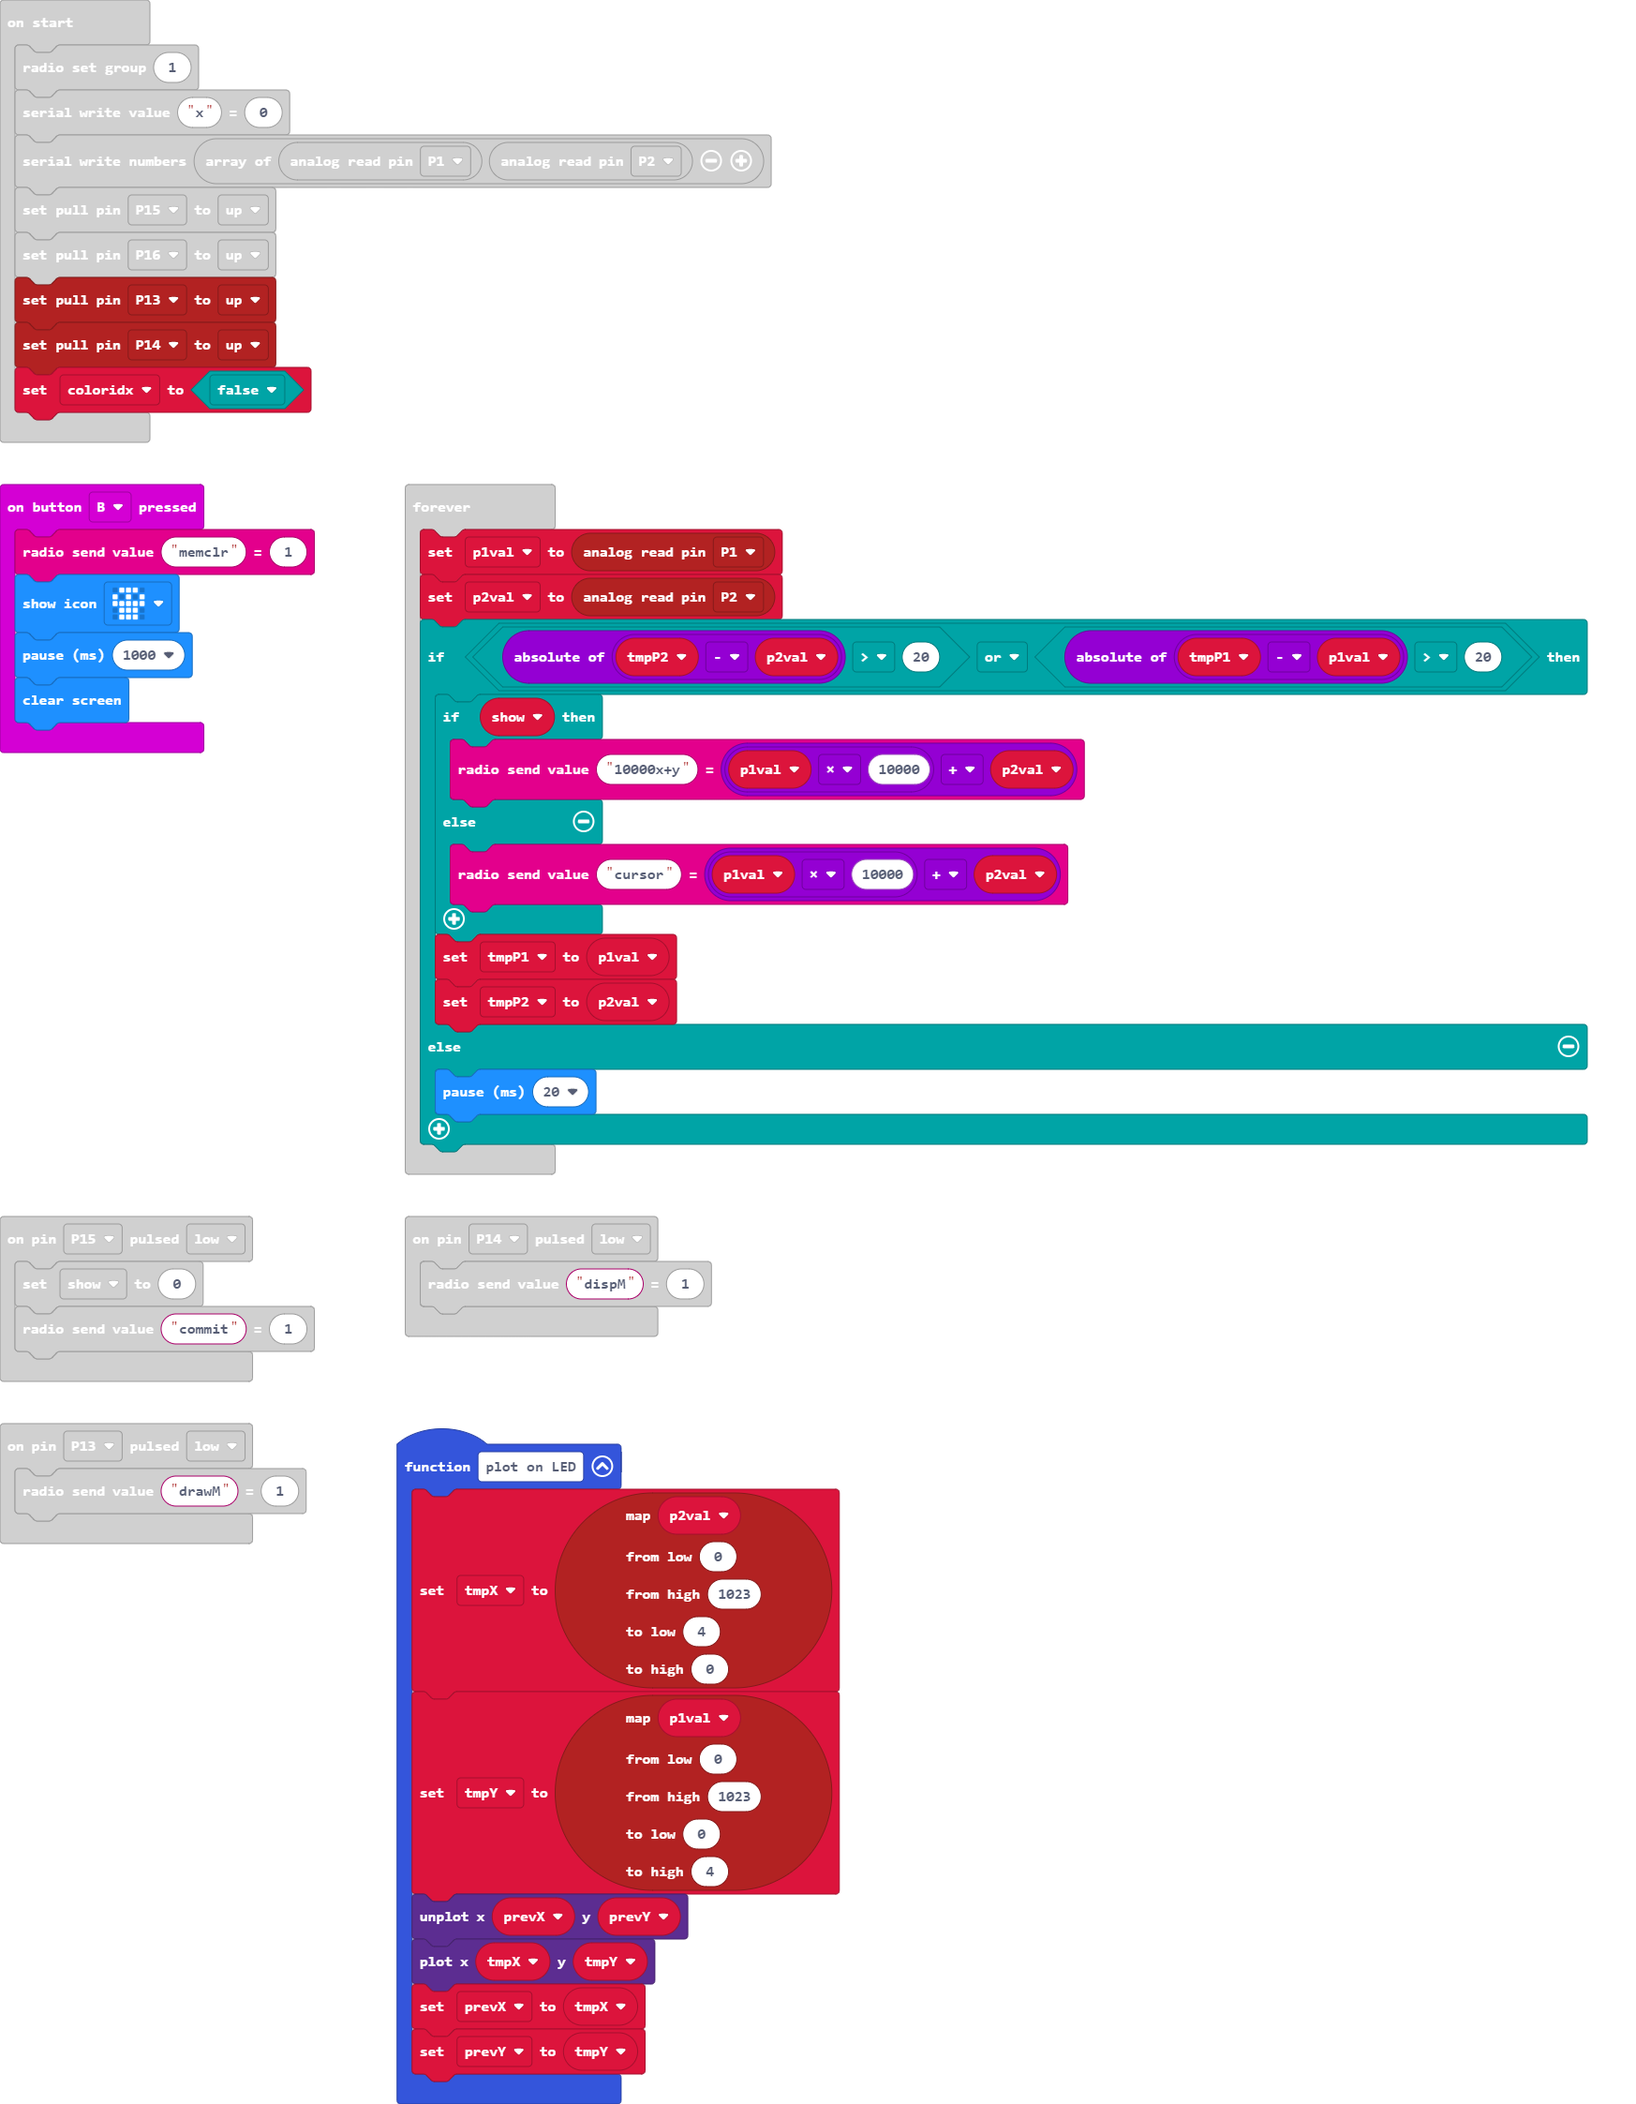
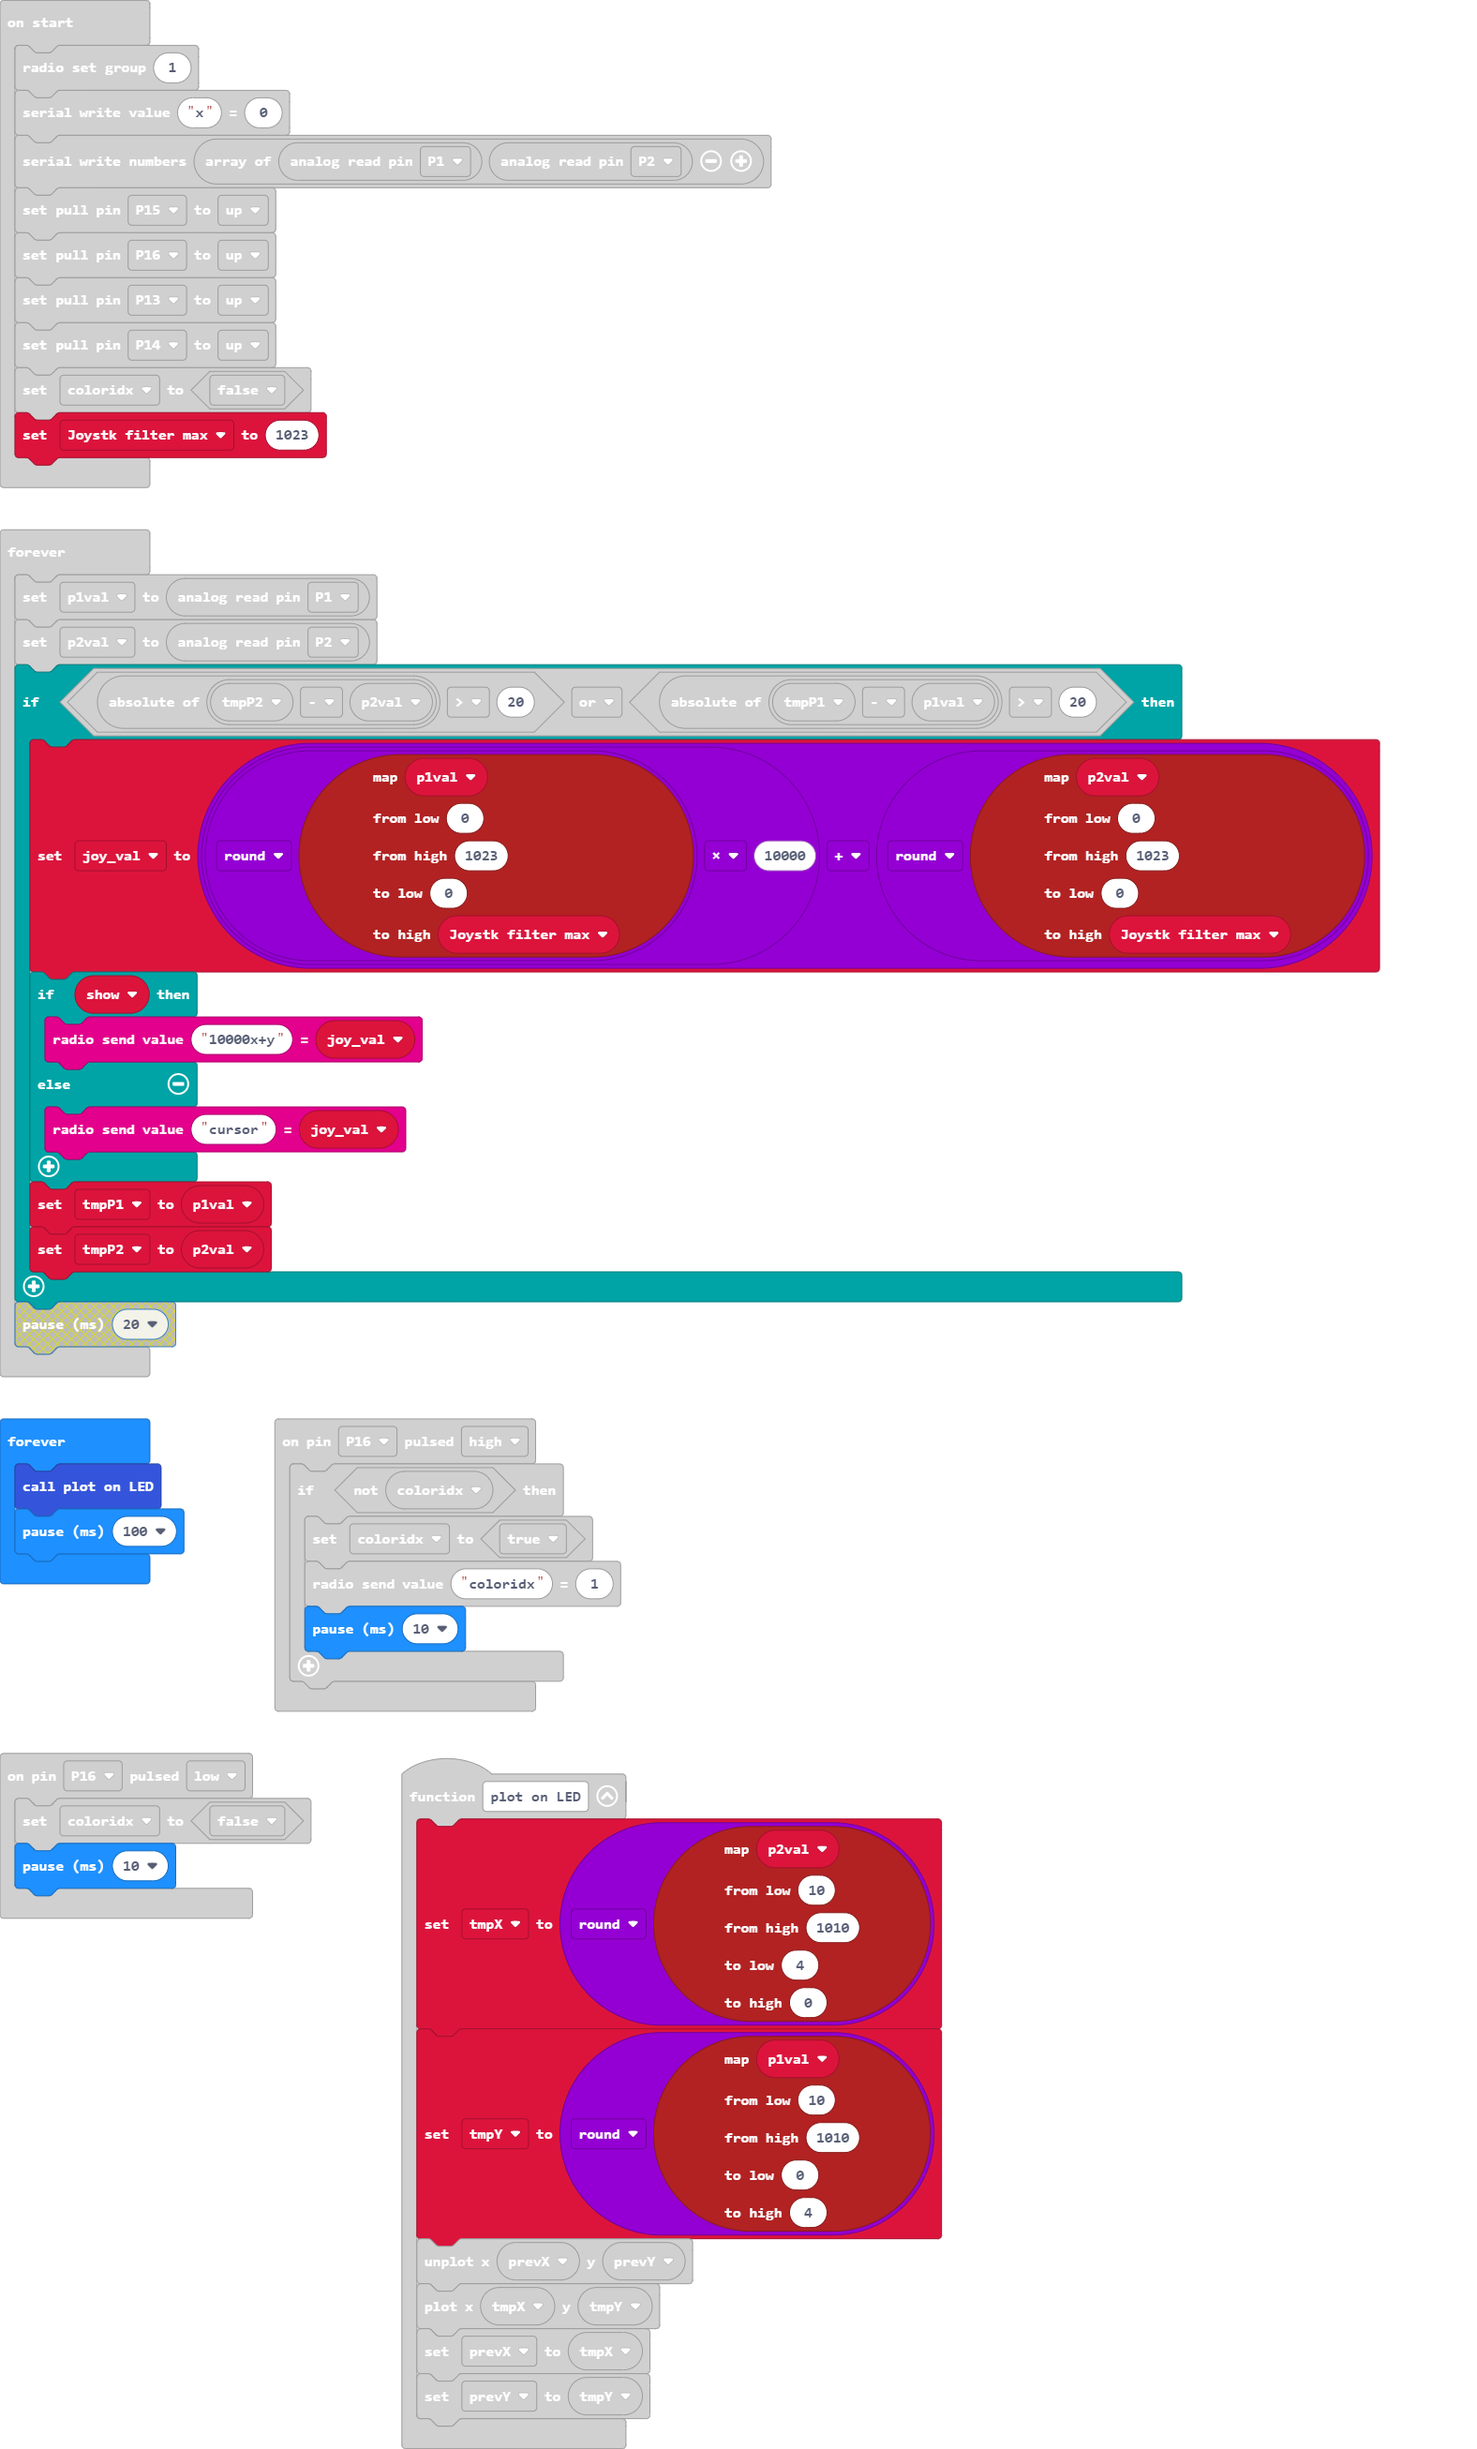
Update main.blocks, main.ts

diff --git a/main.ts b/main.ts
@@ -5,6 +5,7 @@ pins.onPulsed(DigitalPin.P16, PulseValue.High, function () {
     if (!(coloridx)) {
         coloridx = true
         radio.sendValue("coloridx", 1)
+        basic.pause(10)
     }
 })
 input.onButtonPressed(Button.A, function () {
@@ -24,6 +25,7 @@ input.onButtonPressed(Button.B, function () {
 })
 pins.onPulsed(DigitalPin.P16, PulseValue.Low, function () {
     coloridx = false
+    basic.pause(10)
 })
 pins.onPulsed(DigitalPin.P14, PulseValue.Low, function () {
     radio.sendValue("dispM", 1)
@@ -33,25 +35,26 @@ pins.onPulsed(DigitalPin.P15, PulseValue.Low, function () {
     radio.sendValue("commit", 1)
 })
 function plot_on_LED () {
-    tmpX = pins.map(
+    tmpX = Math.round(pins.map(
     p2val,
-    0,
-    1023,
+    10,
+    1010,
     4,
     0
-    )
-    tmpY = pins.map(
+    ))
+    tmpY = Math.round(pins.map(
     p1val,
-    0,
-    1023,
+    10,
+    1010,
     0,
     4
-    )
+    ))
     led.unplot(prevX, prevY)
     led.plot(tmpX, tmpY)
     prevX = tmpX
     prevY = tmpY
 }
+let joy_val = 0
 let tmpP1 = 0
 let tmpP2 = 0
 let prevY = 0
@@ -70,18 +73,34 @@ pins.setPull(DigitalPin.P16, PinPullMode.PullUp)
 pins.setPull(DigitalPin.P13, PinPullMode.PullUp)
 pins.setPull(DigitalPin.P14, PinPullMode.PullUp)
 coloridx = false
+let Joystk_filter_max = 1023
 basic.forever(function () {
     p1val = pins.analogReadPin(AnalogPin.P1)
     p2val = pins.analogReadPin(AnalogPin.P2)
     if (Math.abs(tmpP2 - p2val) > 20 || Math.abs(tmpP1 - p1val) > 20) {
+        joy_val = Math.round(pins.map(
+        p1val,
+        0,
+        1023,
+        0,
+        Joystk_filter_max
+        )) * 10000 + Math.round(pins.map(
+        p2val,
+        0,
+        1023,
+        0,
+        Joystk_filter_max
+        ))
         if (show) {
-            radio.sendValue("10000x+y", p1val * 10000 + p2val)
+            radio.sendValue("10000x+y", joy_val)
         } else {
-            radio.sendValue("cursor", p1val * 10000 + p2val)
+            radio.sendValue("cursor", joy_val)
         }
         tmpP1 = p1val
         tmpP2 = p2val
-    } else {
-        basic.pause(20)
     }
+})
+basic.forever(function () {
+    plot_on_LED()
+    basic.pause(100)
 })
